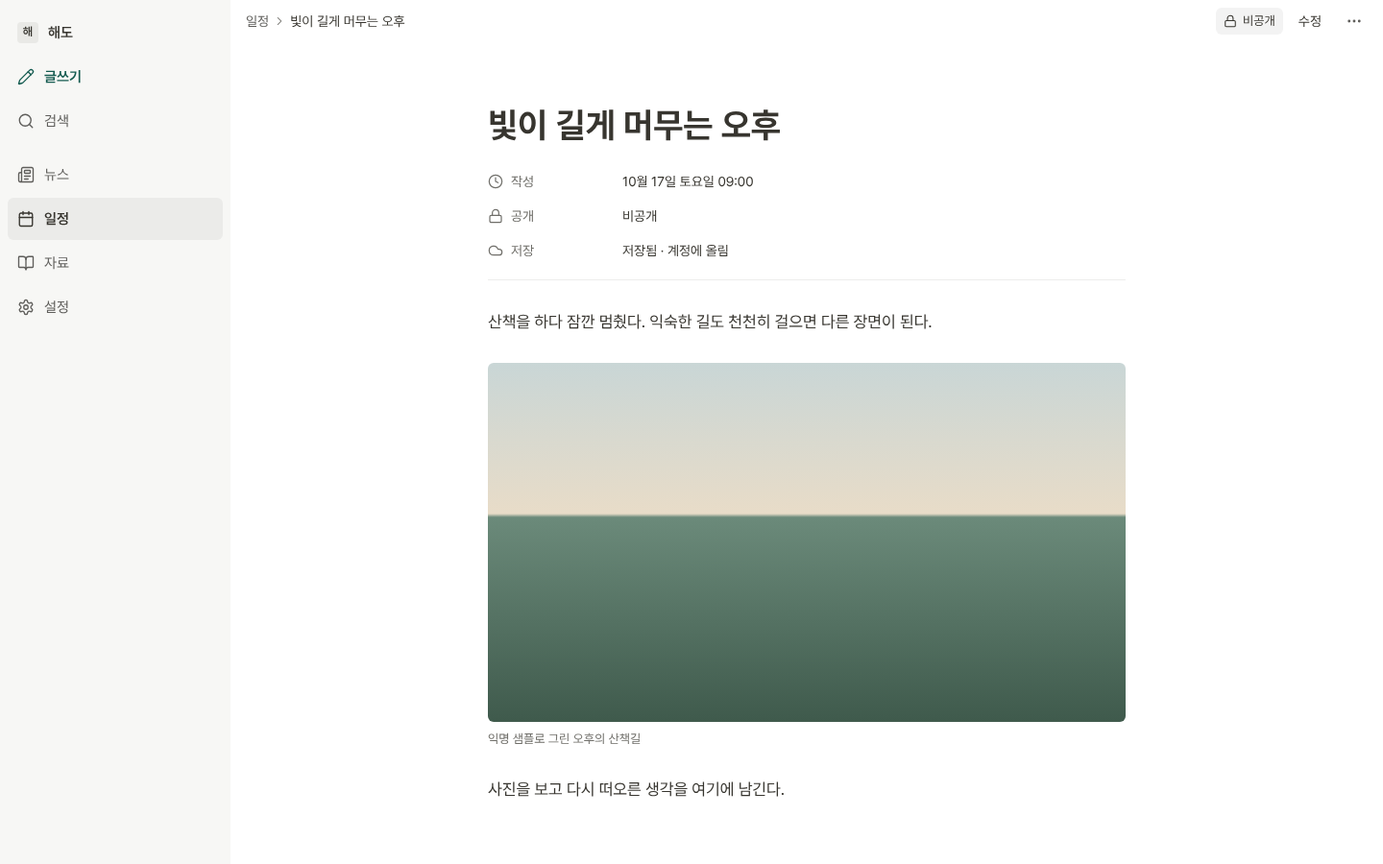
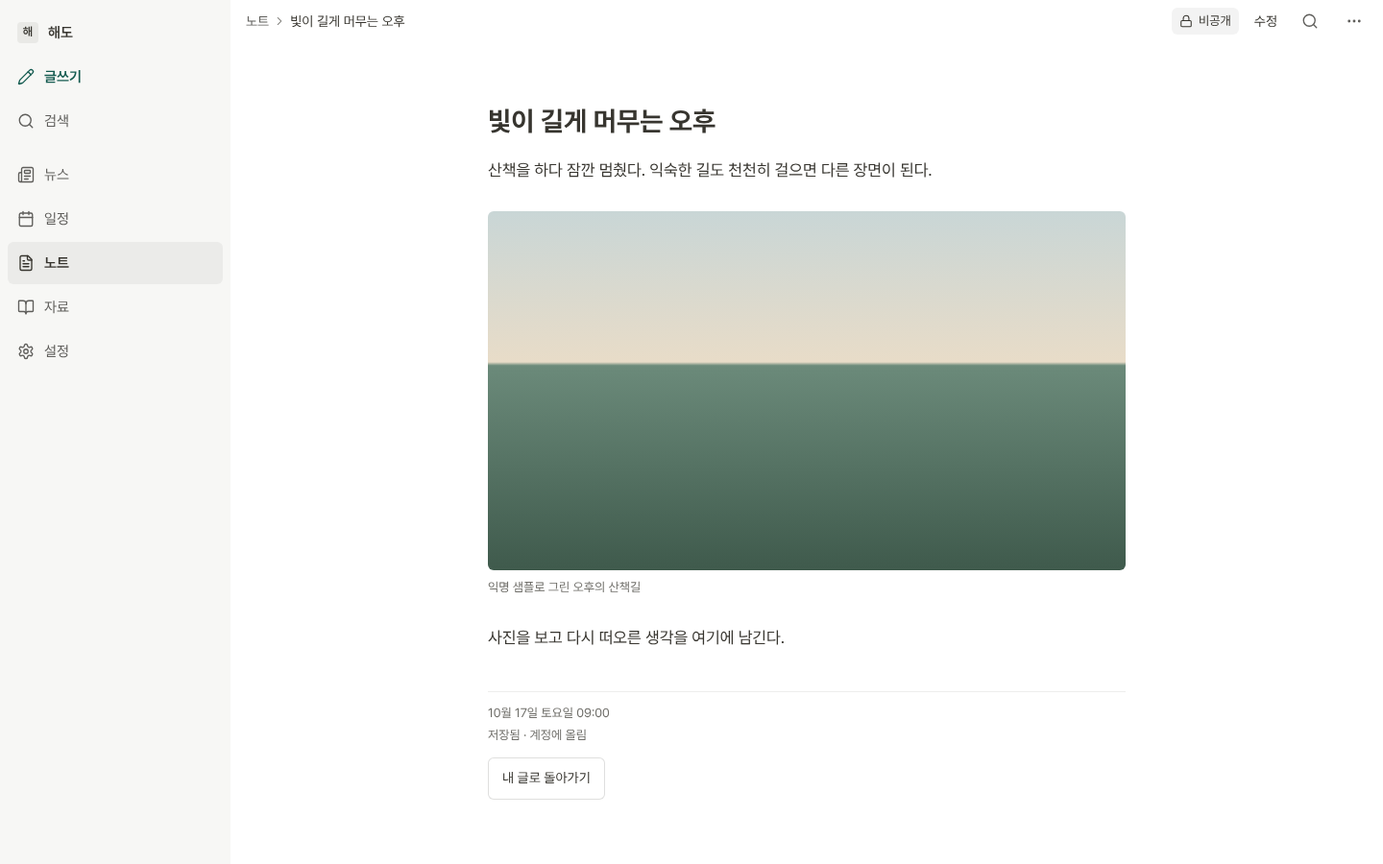
docs: 노션 방향 구현 계약 — 독립 검수 반영판과 새 메뉴 시안 PNG
- 검수(MAJOR 10·MINOR 13·NIT 4) 반영:
  - 글 읽기는 11-02 결정·D1 배치 유지(제목과 본문 사이 비움, 글 끝 줄)
  - 틸은 탐색·머리줄에서 글쓰기 하나, 유지할 곳 목록
  - 선택 상태의 두 번째 표시, 검색 일치 강조 토큰, --canvas 채움 이전
  - 공개 페이지 범위 밖과 보호 조건
  - renderHeader 가지별 담당과 순서(W1 → W2(notes-menu와 함께) → W4, W3 병행)
  - 자료의 개수 상태 줄·검색 필터·사실 꼬리표·가져오기 이름 보존
  - 통합 검색·단축키 (?) 자리, ⋯ 초점 복귀, 알려진 깨지는 단언의 단위별 표
- 시안 PNG 8장을 11-16 메뉴(노트 추가, 일정은 달력만) 기준으로 교체.

Claude-Session: https://claude.ai/code/session_01GFNZYifi77pdz4rK7ARgPc

diff --git a/docs/design-review/notion-visual-contract.md b/docs/design-review/notion-visual-contract.md
@@ -2,184 +2,272 @@
 
 - **소유자 지시(11-16, Designer 세션):**
   - "디자인 위주로만 ㄱㄱ. 디자인 세션이니까 작업 분리 잘해서 진행해. 오케스트레이션 쪽으로 넘어가서 관리하겠다."
-  - 그래서 [노션 방향 시안](notion-direction.md)을 실제 화면에 옮기기로 한다. 노션의 기능(블록 편집, 백링크, 데이터베이스)은 넣지 않는다.
-- **기준:** main `b18adc5`. 시안은 Design 캔버스 「해도 노션 방향 시안」(소유자 계정의 비공개 artifact)이다. 데스크톱 노트·글 읽기·일정 M, iPhone 노트(390·320)·글 읽기·자료·일정 M을 지금 화면과 나란히 그렸다.
+  - 그래서 [노션 방향 시안](notion-direction.md)을 실제 화면에 옮긴다.
+  - 노션의 기능(블록 편집, 백링크, 데이터베이스)은 넣지 않는다.
+- **기준:** main `b18adc5`.
+- **시안:**
+  - 저장소: [notion-direction/](notion-direction/)의 `mock-*.png` 8장
+  - 비교 화면: Design 캔버스 「해도 노션 방향 시안」(소유자 계정의 비공개 artifact). 지금 화면과 시안을 나란히 둔다.
 - **다른 계약과의 관계:**
   - 화면 구조(메뉴 5칸, 노트, 일정은 달력만, 주소)는 [노트 메뉴·일정 정리 계약](notes-menu.md)을 따른다. 이 문서는 그 위에 입히는 **시각 규칙**이다.
   - 둘이 어긋나면 구조는 notes-menu, 모양은 이 문서를 따른다.
-  - 11-08 계약 중 남은 것(계획 화면 틀, 저장 상태 문구, 화면의 날짜)은 그대로다.
-- **이번에 정한 기본값:** 소유자가 남은 판단을 정하지 않고 진행을 지시해서 시안의 권고대로 두었다. 바꾸려면 토큰 한 줄이나 해당 단위만 고치면 된다.
-  - 강조색: 틸 `#145B50` 유지
-  - iPhone 노트 첫 화면의 블로그 소개 묶음: 빼고, `글 메뉴 → 프로필 편집`으로 간다
-  - 노트 행의 중복 `글 읽기 →`와 종류 아이콘: 뺀다
-  - 자료 행의 정보·폴더: `⋯` 하나로 합친다
+  - 11-02 글쓰기·읽기 결정([write-read-redesign](write-read-redesign.md), [expert-design-brief](expert-design-brief.md) 결정표)과 11-08 계약 중 남은 것(계획 화면 틀, 저장 상태 문구, 화면의 날짜)은 그대로다.
+- **독립 검수:** 첫 초안(`1522d97`)을 다른 에이전트가 검수했다. MAJOR 10·MINOR 13·NIT 4건이 나왔고 모두 이 판에 반영했다.
+  - 이 판은 그 검수를 반영한 판이다. 작업자에게 넘기기 전에 총괄이 한 번 더 확인한다.
+
+## Designer 기본값 (소유자가 바꿀 수 있음)
+
+소유자는 남은 판단을 정하지 않고 진행을 지시했다. 그래서 아래는 시안의 권고값으로 두었다. 각각 토큰 한 줄이나 한 단위의 별도 커밋이라 따로 되돌릴 수 있다.
+
+1. 강조색은 틸 `#145B50`을 유지한다.
+2. 노트 첫 화면의 블로그 소개 묶음(프로필 줄)을 뺀다.
+   - 프로필 보기·편집·불러오기 실패 재시도는 `글 메뉴 → 프로필 편집`으로 간다.
+   - W2가 묶음의 각 요소(이름·소개·아바타·`소개 표시`·재시도)의 새 자리를 표로 보고한다.
+   - 공개 블로그의 소개 표시는 바뀌지 않는다.
+3. 노트 행의 종류 아이콘(`home-row-mark`)과, 제목 버튼과 같은 일을 하는 `글 읽기 →`(`.home-post-read`)·사진 열기 버튼(`.home-post-media`)을 뺀다. 행은 제목 버튼 하나로 연다.
+4. 노트 행의 사진은 4:3 큰 사진 대신 오른쪽 64–72px 사진으로 줄인다.
+   - 이것은 `DESIGN.md`와 AGENTS 스킬 절의 "실제 사진 피드"를 바꾸는 일이다.
+   - 채택하면 총괄이 AGENTS 문장을 고친다. 소유자가 원하면 이 한 가지만 되돌린다.
+5. 자료 행의 `자료 출처 정보`·폴더 두 아이콘을 행의 `⋯` 하나로 합친다.
 
 ## 범위
 
-- **한다:**
-  - 색·글자·모서리·간격 토큰, 틀(회색 캔버스 위 흰 판 → 흰 바탕 하나), 데스크톱 메뉴 바탕, 하단 탭
-  - 머리줄과 화면 제목, 탭·거르기·목록 행·속성 줄·꼬리표
-  - 글 읽기의 도구 줄 한 줄로 합치기
+- **한다(앱 화면):**
+  - 색·글자·모서리 토큰과 틀(회색 캔버스 위 흰 판 → 흰 바탕 하나)
+  - 데스크톱 메뉴 면, 좁은 세로 메뉴, 하단 탭
+  - 머리줄, 탭·거르기·꼬리표·목록 행 모양
+  - 글 읽기 도구 줄의 항목 정리
   - 자료·뉴스·설정 머리의 조작 정리
 - **하지 않는다:**
-  - 저장 형식·동기화·공개·백업 로직, 데이터 키
-  - 화면 문구의 뜻(아래 보존 문구), 행동의 추가·삭제
-  - 노션 기능, 움직임(`haedo-motion`) 규칙
-  - `sw.js` CACHE 판올림(총괄이 병합 때)
+  - **공개 페이지**(`blog.html`·`cover.html`·`series.html`·`share.html`·`taste.html`, `public-cover.css`). 이번에는 지금 모습 그대로다(아래 W1 조건).
+  - 저장 형식·동기화·공개·백업 로직과 데이터 키
+  - 문구의 뜻(보존 문구), 행동의 추가·삭제·이름 바꾸기
+  - 노션 기능, 움직임 규칙(`haedo-motion`)
+  - `sw.js` CACHE 판올림(총괄이 병합 때 한다)
 
 ## 토큰 (`assets/haedo-shell.css` `:root`, `assets/haedo-type.css`)
 
-대비는 WCAG 2이고, 반투명 값은 실제 바탕에 합성해 계산했다(scratchpad 계산, 수치는 아래).
+대비는 WCAG 2로 계산했고, 반투명 값은 실제 바탕에 합성해 쟀다. 독립 검수가 다시 계산해 ±0.02 안에서 같았다.
 
 | 토큰 | 지금 | 새 값 | 확인 |
 | --- | --- | --- | --- |
 | `--haedo-ink` | `#182522` | `#37352F` | 흰 12.26, 사이드바 11.43 |
-| `--haedo-muted`(보조 글자) | `#5D6B65` | `#5F5E5B` | 흰 6.48, 사이드바 6.04, 사이드바 선택 5.43 |
-| 새 `--haedo-meta`(시각·개수 같은 메타) | — | `#6F6E69` | 흰 5.11, 사이드바 4.76, 흰 위 선택 4.60. **사이드바 선택(`#EBEBE9`) 위 4.28로 미달이라 거기에는 쓰지 않는다** |
-| `--haedo-canvas`(페이지 바탕) | `#F4F6F5` | `#FFFFFF` | 회색 바탕 위 흰 판을 없앤다 |
-| 새 `--haedo-sidebar` | — | `#F7F7F5` | 데스크톱 왼쪽 메뉴만 |
-| `--haedo-selected` | `#EAF1ED` | `rgba(55,53,47,.06)` | 흰 위 `#F3F3F3`, 사이드바 위 `#EBEBE9` |
-| 새 `--haedo-hover` | — | `rgba(55,53,47,.04)` | 행·메뉴 호버(포인터 기기) |
-| `--haedo-soft` | `#F4F7F5` | `#F7F7F5` | 옅은 채움(작성하던 글 줄, 빈 상태) |
-| `--haedo-line` | `#E3E9E6` | `rgba(55,53,47,.09)` | 흰 위 `#EDEDEC`. 장식선이라 대비 요구 없음 |
-| `--field-line`(입력칸 테두리) | `#86968D` | `#8A8984` | 흰 3.5, 사이드바 3.27(비글자 3:1) |
-| `--haedo-accent` 계열 | `#145B50`·hover `#104A41`·active `#0C3D35` | 그대로 | 흰 7.95, 흰 글자 위 7.95 |
-| `--haedo-link` | `#145B50` | `var(--haedo-ink)` + 밑줄 `rgba(55,53,47,.4)` | 글 안 링크는 밑줄로 구분한다. 행·메뉴 링크는 밑줄 없이 행 모양 |
-| `--haedo-focus` | `#267A69` | 그대로 | 흰 5.16, 사이드바 4.81 |
+| `--haedo-muted`(보조 글자) | `#5D6B65` | `#5F5E5B` | 흰 6.48, 사이드바 6.04, 사이드바 선택 5.45 |
+| 새 `--haedo-meta`(시각·개수) | — | `#6F6E69` | 흰 5.11, 흰 위 호버 4.77, 흰 위 선택 4.60, 사이드바 4.76. **사이드바 위 호버 4.45·선택 4.28로 미달이라 사이드바에는 쓰지 않는다** |
+| `--haedo-canvas`(페이지 바탕) | `#F4F6F5` | `#FFFFFF` | 회색 바탕 위 흰 판을 없앤다. 아래 "채움 이전"과 함께 한다 |
+| 새 `--haedo-sidebar` | — | `#F7F7F5` | 데스크톱·좁은 세로 메뉴 면 |
+| `--haedo-selected` | `#EAF1ED` | `rgba(55,53,47,.06)` | 흰 위 `#F3F3F3`, 사이드바 위 `#EBEBE9`. 흰색과의 차이가 1.11:1뿐이라 **선택·현재 상태는 바탕만으로 나타내지 않는다**(공통 부품의 "두 번째 표시") |
+| 새 `--haedo-hover` | — | `rgba(55,53,47,.04)` | 포인터 기기의 행·메뉴 호버 |
+| `--haedo-soft` | `#F4F7F5` | `#F7F7F5` | 옅은 채움. 그 위의 보조 글은 `--haedo-muted`를 쓰고, 호버를 겹치지 않는다 |
+| 새 `--haedo-mark`(검색 일치 강조) | `--soft`를 함께 씀 | `#FBEFC0`(지금 `::highlight(haedo-search)` 값) | `.life-search-context mark`가 선택 바탕과 떨어지게 한다 |
+| `--haedo-line` | `#E3E9E6` | `rgba(55,53,47,.09)` | 흰 위 `#EDEDEC`. 장식선이다 |
+| `--field-line`(입력·검색 칸 테두리) | `#86968D` | `#8A8984` | 흰 3.50, 사이드바 3.27, 흰 위 선택 3.16 |
+| `--haedo-accent` 계열 | `#145B50`·`#104A41`·`#0C3D35` | 그대로 | 흰 7.95 |
+| `--haedo-focus` | `#267A69` | 그대로 | 흰 5.16, 사이드바 선택 4.34 |
 | `--color-error` | `#A3243D` | 그대로 | 흰 7.3 |
 | `--haedo-radius` | `16px` | `8px` | 카드·시트 |
-| `--haedo-control-radius` | `12px` | `6px` | 버튼·입력칸·선택 바탕 |
+| `--haedo-control-radius` | `12px` | `6px` | 버튼·입력칸·선택 바탕. **습관 확인 칸 12px는 예외(소유자 결정)** |
 | `--haedo-nav-width` | `216px` | `240px` | 데스크톱 메뉴 폭 |
-| 새 굵기 토큰 | 750·700·650·550·450 섞임 | `--haedo-weight-regular:400` · `medium:500` · `semibold:600` · `bold:700` | 700은 화면 제목·글 제목만 |
-| 글자 크기 | 12·13·15·16·17·24·28 | 그대로 두고 `--haedo-text-page-title: 34px`(데스크톱)·`24px`(760px 이하), `--haedo-text-post-title: 36px`·`26px`를 더한다 | 자간 0(20px 이하), 큰 제목은 0 또는 -0.01em까지 |
+| 새 굵기 토큰 | 750·700·650·550·450 섞임 | `--haedo-weight-regular:400`, `-medium:500`, `-semibold:600`, `-bold:700` | 700은 화면 제목·글 제목만 |
+| 새 글자 크기 | 12·13·15·16·17·24·28 | 그대로 두고 `--haedo-text-page-title: 34px`(1101px 이상)를 더한다 | 760px 이하 화면 제목은 지금처럼 28px. 글 제목은 편집·읽기 같은 28px(11-02 결정) 그대로. 자간은 20px 이하 0, 큰 제목 0~-0.01em |
 
-- 바꾸지 않는 것: 습관 확인 칸(44px 정사각, 모서리 12px, 소유자 결정)의 모서리, Pretendard, Lucide 선 굵기 1.8, 조작 아이콘 20px·글 안 16px.
-- 옛 이름(`--life-*`, `--soft`, `--line`, `--ink`, `--paper-2`)은 새 토큰을 가리키게 둔다. 화면 파일의 별칭은 지우지 않는다.
+### W1이 함께 해야 하는 것
+
+- **채움 이전:** 지금 `--canvas`를 유일한 채움으로 쓰는 곳은 바탕이 흰색이 되면 경계가 사라진다. 이런 곳을 `--haedo-soft`나 입력 테두리로 옮긴다.
+  - `ui.css`: `.life-search-bar` `:88`, `.life-selection-bar` `:126`, `.life-import-methods` `:200`
+  - `home.css`: `:24`·`:70`·`:87`·`:102`
+  - `workbench.css`: `:133`
+  - 검색 칸 안쪽 입력은 `border:0`(`ui.css:91`)이라 바깥 칸이 `--field-line` 테두리를 가져야 한다.
+- **`--soft` 사용처 점검:** 셸에서 `--soft`는 `--haedo-selected`를 가리킨다(`haedo-shell.css:10`). 눌림·현재·일치 표시(`ui.css:58,98,109,116,124,202,349,357`, `workbench.css` 여러 곳)가 함께 옅어진다.
+  - 각 사용처를 분류해 보고한다: 두 번째 표시를 더할 곳, `--haedo-mark`로 갈 곳, 그대로 둘 곳.
+- **틸 사용처 분류:** `var(--color-primary)` 136곳과 `var(--haedo-accent)` 36곳을 아래 "틸 규칙"에 따라 "유지 / 먹색으로"로 나눈 표를 만들어 보고한다.
+  - 링크의 실제 색은 `ui.css:23` `a{color:var(--color-primary)}`이다. 글 안 링크만 먹색 + 밑줄(`rgba(55,53,47,.4)`, 오프셋 4px)로 바꾼다. 행·메뉴 모양의 링크는 행 규칙을 따른다.
+- **공개 페이지 보호:**
+  - 공개 페이지는 `ui.css`만 읽고 `haedo-shell.css`는 읽지 않는다. 그래서 새 값은 `haedo-shell.css`에만 둔다.
+  - `ui.css`의 별칭은 지금 값을 대체값으로 유지한다(예: `var(--haedo-canvas, #f4f6f5)`). 대체값 없는 `var(--haedo-*)`로 바꾸지 않는다.
+  - 공개 검사(`blog-public-browser`, `public-cover-visual-browser --prepare-database`, `nine-public-browser`, `blog-series-public-browser`)와 전·후 캡처로 공개 화면이 바뀌지 않았음을 보인다.
+
+## 틸 규칙
+
+- **탐색·머리줄에서 틸은 `글쓰기` 하나다.** 메뉴의 현재 항목, 탭, 거르기, 행, 머리 아이콘은 먹색·회색이다.
+- **틸을 유지하는 곳:**
+  - 초점 링
+  - 체크된 체크·`accent-color`
+  - 인용 바(소유자 결정 "인용 = 틸 3px 바")
+  - 진행 막대
+  - 편집기·대화상자의 주 버튼(`글 저장`, `공개하기` 등)
+  - 빈 상태의 첫 행동(`첫 글 쓰기`)
+  - iPhone 머리의 `글쓰기` 아이콘
+- **바뀌는 것:** 달력의 오늘 표시는 먹색 원이다(시안). 습관 표의 오늘 표시는 W2가 같은 규칙으로 맞춘다.
+- **바꾸지 않는 것:** 연표·행복도의 데이터 색(`DESIGN.md` 데이터 색 절).
 
 ## 공통 부품 규칙
 
+- **재사용:** 기존 클래스와 도우미를 쓴다(11-09 교훈). 같은 일을 하는 새 도우미를 만들지 않는다.
+  - 예: 머리 제목 `.haedo-page-heading h1`, 메뉴 `.life-feature-menu`, 자료 탭 `RecordsList.tabs`
+- **뜻은 바꾸지 않는다:** 모양만 바꾸고 지금의 역할·상태 속성을 유지한다.
+  - 설정의 분할 선택은 라디오 묶음이고(`settings-ui.js:237`), `Y·Q·M·W·D`는 `aria-current="true"` 링크다(`schedule-ui.js:654-659`). 모양만 글자 탭이 된다.
 - **틀:**
-  - 페이지는 흰 바탕 하나다. 데스크톱 메뉴만 `--haedo-sidebar` 면을 쓰고 화면 높이를 채운다.
-  - 본문을 회색 바탕 위 흰 판(테두리·둥근 모서리)으로 감싸지 않는다.
-  - 경계는 1px `--haedo-line`이고 그림자는 떠 있는 것(메뉴·시트·알림)에만 쓴다.
-- **데스크톱 메뉴(1101px 이상):**
-  - 순서: `해도` 글자 표지 → `글쓰기` → (`검색`, 지금 있으면) → 8px → 뉴스·일정·노트·자료·설정.
-  - 항목 높이 44px, 모서리 6px. 현재 항목은 `--haedo-selected` 바탕, 먹색, 600이다.
-  - 나머지 항목은 `--haedo-muted`, 400이다. 아이콘 20px, 선 1.8.
-  - `글쓰기`는 채운 틸 버튼이 아니다. 틸 **글자와 아이콘**의 조용한 항목이고, 한 화면에서 틸을 쓰는 유일한 곳이다.
-  - 새 글을 쓰는 중이면 현재 항목 모양으로 바뀐다(지금 규칙 15 유지).
+  - 페이지는 흰 바탕 하나다. 메뉴만 `--haedo-sidebar` 면이고 화면 높이를 채운다.
+  - 본문을 회색 바탕 위 흰 판으로 감싸지 않는다.
+  - 경계는 1px `--haedo-line`이다. 그림자는 떠 있는 것(메뉴·시트·알림)에만 쓴다.
+- **데스크톱 메뉴(1101px 이상, 폭 240px):**
+  - 순서: `해도` 글자 표지 → `글쓰기` → 8px → 뉴스·일정·노트·자료·설정. 메뉴에 검색을 새로 더하지 않는다. 통합 검색은 머리에 남는다.
+  - 항목 높이 44px, 모서리 6px.
+  - 현재 항목: `--haedo-selected` 바탕 + 먹색 + 600(두 번째 표시)이다. 나머지는 `--haedo-muted` 400이다.
+  - `글쓰기`는 채운 틸 버튼 대신 틸 글자·아이콘의 조용한 항목이다. 새 글을 쓰는 중이면 현재 항목 모양이 된다(결정 15).
+- **좁은 세로 메뉴(761–1100px, iPad 세로·분할 화면):**
+  - 지금 폭(88px)과 아이콘 위·라벨 아래 배치를 유지한다. 면은 `--haedo-sidebar`다.
+  - `글쓰기`는 채움 없는 틸 아이콘+라벨이다. 현재 항목 규칙은 데스크톱과 같다.
 - **하단 탭(760px 이하):**
-  - 5칸 같은 폭, 높이 64px, 위 1px 선, 흰 바탕.
-  - 현재 칸은 먹색 600, 나머지는 `--haedo-meta` 400이다. 아이콘 20px, 라벨 12px.
-  - 320px에서 칸 64px, 라벨이 잘리지 않아야 한다.
-- **노트 아이콘:** Lucide 1.51.0 `file-text`를 새로 넣는다. 원본 SVG와 SHA-256을 `vendor/lucide/UPSTREAM.json`과 `vendor/lucide/icons/`에 남긴다. `write`(글쓰기)·`edit`(수정)·`quote`(인용)·`book`(자료)과 겹치지 않는다.
-- **머리줄과 화면 제목:**
-  - 데스크톱 머리줄은 높이 44px이고 왼쪽에 경로(14px, `--haedo-muted`, 예: `노트 › 빛이 길게 머무는 오후`), 오른쪽에 행동을 둔다.
-  - 화면 제목은 본문 맨 위의 큰 제목(`--haedo-text-page-title`, 700)이다.
-  - iPhone은 지금처럼 한 줄 머리(제목 24px 700 + 오른쪽 아이콘)다.
-  - 머리의 아이콘은 **최대 3개**이고 `글쓰기`는 iPhone에서 늘 맨 오른쪽이다. 나머지 행동은 `⋯` 메뉴로 옮긴다. 행동은 지우지 않는다.
-- **탭(화면 안 보기 전환):**
-  - 글자 탭이고 현재 탭은 먹색 600 + 아래 2px 먹색 선이다. 회색 분할 상자는 쓰지 않는다.
-  - 높이 44px. 탭 줄 아래 1px 선.
+  - 5칸 같은 폭, 높이 64px, 위 1px 선, 흰 바탕이다.
+  - 현재 칸은 먹색 600이고 나머지는 `--haedo-meta` 400이다. 아이콘 20px, 라벨 12px.
+  - 각 칸 44px 이상이고 320px에서 라벨이 잘리지 않아야 한다(지금 좌우 여백 `max(12px,…)` 기준, notes-menu 문장과 같다).
+- **노트 아이콘:**
+  - Lucide 1.51.0 `file-text`를 새로 넣는다.
+  - `vendor/lucide/icons/`에 원본 SVG를 두고, `vendor/lucide/UPSTREAM.json`의 `files`(또는 `npm_subset.files`)에 SHA-256과 함께 적는다. 그래야 `tests/icons.test.cjs`가 통과한다.
+  - 판에 그 아이콘이 없으면 Designer에 알리고 멈춘다. 다른 판에서 가져오지 않는다.
+- **머리줄:**
+  - **데스크톱:** 머리줄 높이 44px. 왼쪽은 경로(14px `--haedo-muted`, 예: `노트 › 빛이 길게 머무는 오후`)이고, 오른쪽은 행동이다. 화면 제목은 본문 맨 위 큰 제목(`--haedo-text-page-title`, 700)이다.
+  - **760px 이하:** 지금처럼 한 줄 머리(제목 28px 700 + 오른쪽 아이콘)다.
+  - **머리 오른쪽 아이콘은 `글쓰기`를 빼고 최대 3개다:** [화면 고유 행동 0–1개] · `통합 검색`(`#lifeFindOpen`, 이름 그대로) · `⋯`. 나머지 행동은 `⋯`로 옮기고 지우지 않는다.
+  - 일정의 단위 탭·`오늘`·`‹ ›`는 이 상한 밖의 탐색 묶음이다. `단축키 (?)`(`schedule-ui.js:686`)는 데스크톱에서 유지한다(키보드 도움말 보존).
+  - iPhone의 `글쓰기`는 늘 맨 오른쪽이다.
+- **두 번째 표시(선택·현재·눌림):** 바탕(`--haedo-selected`)과 함께 **먹색 600 글자**나 **아래 선·체크·테두리**를 하나 더 쓰고, `aria-pressed`·`aria-current`·`aria-selected`를 유지한다. 색만으로 상태를 나타내지 않는다(`DESIGN.md` 상태 규칙).
+- **탭(화면 안 보기 전환):** 글자 탭이다. 현재 탭은 먹색 600 + 아래 2px 먹색 선이다. 높이 44px, 탭 줄 아래 1px 선. 회색 분할 상자는 쓰지 않는다.
 - **거르기·꼬리표:**
-  - 보이는 바탕은 28px(선택 시 `--haedo-selected`, 모서리 6px)이고 누르는 범위는 44px이다.
-  - 원천 꼬리표(`Apple 메모`, `Obsidian`)는 `#F1F1EF` 바탕, `--haedo-muted` 글자, 12px, 모서리 4px다(대비 5.73).
+  - 보이는 바탕은 28px이고 누르는 범위는 44px이다.
+  - 선택된 거르기는 바탕 + 먹색 600 글자이고, 나머지는 `--haedo-muted` 400이다.
+  - 원천·사실 꼬리표(`Apple 메모`, `본문 일부`, `버전 2/3` 등): `#F1F1EF` 바탕, `--haedo-muted` 글자, 12px, 모서리 4px(대비 5.73).
 - **목록 행:**
-  - 행 전체가 하나의 열기 동작이다. 제목(16px 600, 최대 2줄), 발췌(14px `--haedo-muted`, 데스크톱 1줄·iPhone 2줄), 메타 한 줄(13px `--haedo-meta`), 사진이 있으면 오른쪽 64–72px 사진을 둔다.
-  - 행 사이는 1px 선이다. 같은 행에 같은 일을 하는 두 번째 버튼을 두지 않는다.
+  - 지금의 제목 버튼(`h3 > button`)을 유지하고 누르는 범위만 행 전체로 넓힌다(늘린 링크 방식). 버튼 안에 다른 조작을 넣지 않는다.
+  - 사진은 보이기만 하고 따로 누르지 않는다. 같은 일을 하는 두 번째 버튼을 두지 않는다.
+  - 제목 16px 600(최대 2줄), 발췌 14px `--haedo-muted`(데스크톱 1줄·iPhone 2줄), 메타 한 줄 13px `--haedo-meta`, 행 사이 1px 선이다.
   - 행에 따로 할 일이 있으면 오른쪽 `⋯` 하나로 모은다.
-- **날짜 머리:** 13px 500 `--haedo-muted`, 위 28px 여백.
-- **속성 줄(글 읽기):** 이름 칸(데스크톱 140px·iPhone 88px, 16px 아이콘 + 이름, `--haedo-meta`)과 값(14px 먹색). 높이 32–36px.
-- **빈 상태:** 표나 상자를 그리지 않고 한 줄 문장(14px `--haedo-meta`)과, 있으면 링크 하나만 둔다.
-- **메뉴(`⋯`)·시트:** 흰 바탕, 1px 선, 그림자 `0 0 0 1px rgba(15,15,15,.05), 0 3px 6px rgba(15,15,15,.1), 0 9px 24px rgba(15,15,15,.2)`, 모서리 8px, 항목 44px.
+- **날짜 머리:** 13px 500 `--haedo-muted`, 위 28px.
+- **빈 상태:** 표나 상자 없이 한 줄 문장(14px `--haedo-meta`)과, 있으면 링크 하나다.
+- **메뉴(`⋯`)·시트:**
+  - 흰 바탕, 1px 선, 그림자 `0 0 0 1px rgba(15,15,15,.05), 0 3px 6px rgba(15,15,15,.1), 0 9px 24px rgba(15,15,15,.2)`, 모서리 8px, 항목 44px.
+  - **초점 복귀:** `⋯` 안으로 옮긴 조작은 Esc나 실행 뒤 초점을 **그 `⋯` 버튼**(행 메뉴면 그 행의 제목 버튼)으로 돌린다.
+    - 지금 id·클래스로 초점을 돌려주는 코드(`#lifeSelectionToggle` `ui.js:2652,4248`, 폴더 이동 `:4420-4427`)는 닫힌 메뉴 안의 요소를 가리키지 않게 고친다.
+- **아이콘:** Lucide 선 아이콘만 쓴다. 공개 알약의 자물쇠도 Lucide `lock`이다. 이모지는 쓰지 않는다.
 
 ## 화면별 규칙
 
 - **노트(notes-menu 단위):**
-  - 탭 `글 · 초안 · 숨긴 글`과 `내 글 찾기`가 한 줄에 온다.
+  - 탭 `글 · 초안 · 숨긴 글`과 `내 글 찾기`가 한 줄이다.
   - 그 아래 `작성하던 글 · 제목 · 이어쓰기` 한 줄을 `--haedo-soft` 바탕으로 둔다.
-  - 그다음 날짜 머리와 행이 온다.
-  - 머리 오른쪽은 `글 메뉴`(⋯: 글 공개·보관, 계정 보관 상태, 프로필 편집)와 iPhone `글쓰기`다.
+  - 그다음 날짜 머리(처음 쓴 날, 결정 8)와 행이 온다.
+  - 머리는 `통합 검색` · `글 메뉴`(⋯: 글 공개·보관, 계정 보관 상태, 프로필 편집)와 iPhone `글쓰기`다.
+  - 행 메타는 시각 + 공개 표시 문구 그대로다.
 - **일정(모든 단위 같은 틀):**
-  - 데스크톱 머리: 제목(`2026년 11월` 등) 오른쪽에 단위 글자 탭 `Y Q M W D`, `오늘`, `‹ ›`, `일정에서 찾기`를 둔다.
-  - 그 아래 거르기 `전체 · 글 · 발췌 · 사진`, 본문, 옆 칸(280px, 왼쪽 1px 선)이 온다.
-  - M 칸: 1px 선 격자, 칸 높이 104px, 날짜 13px. 오늘은 24px 먹색 원에 흰 글자다.
-  - 그 날의 글은 칸 안 회색 꼬리표(12px)다. **칸 전체가 하나의 링크**(44px 이상)이고 이름은 `11월 5일, 글 1편`이다. 꼬리표를 따로 누르게 하지 않는다.
-  - iPhone: 단계 막대가 없다(소유자 결정). `‹ 2026`(연으로)과 `찾기`·`글쓰기`가 한 줄, 제목과 `오늘 ‹ ›`가 한 줄이다. 날짜 44px, 오늘 32px 먹색 원, 글 있는 날 4px 먹색 점이다.
-  - 옆 칸 순서는 `예정 → 습관 · 행복도 → 목표 · 계획`이다(notes-menu). 습관 점은 6px이고 한 날은 채움, 지난 할 날은 1.5px 테두리, 앞으로의 할 날은 옅은 테두리다.
-  - 범례에 `보기 전용 · 체크는 하루·주 보기에서`를 둔다(결정 13).
-- **글 읽기:**
-  - 도구는 한 줄이다: `뒤로` · `🔒 공개 알약`(지금 `글 정보` 동작 그대로) · `수정`(숨긴 글이면 `목록에 다시 보이기`) · `⋯` · iPhone `글쓰기`.
-  - 지금 둘째 줄의 `사진 포함 백업`·찾기·`삭제`(맨 아래)는 `⋯` 안으로 옮긴다. 순서는 지금 메뉴 순서를 따른다.
-  - 제목(`--haedo-text-post-title`, 700) 아래에 속성 줄 `작성`(처음 쓴 날, 결정 8)과 `저장`(두 단계 저장 상태 문구 그대로)을 두고, 1px 선 뒤 본문이 온다.
-  - 공개 상태는 위 알약에만 둔다. 글 끝의 저장 상태 줄과 `다시 시도`는 속성 줄로 옮긴다.
-  - 본문 17px/1.8은 그대로다. AI 점 표시도 그대로다.
+  - **데스크톱 머리:** 제목(`2026년 11월` 등), 단위 글자 탭, `오늘`, `‹ ›`, `통합 검색`, `단축키 (?)`. 그 아래 거르기 `전체 · 글 · 발췌 · 사진`, 본문, 옆 칸(280px, 왼쪽 1px 선)이 온다.
+  - **M 칸:**
+    - 1px 선 격자, 칸 높이 104px, 날짜 13px. 오늘은 24px 먹색 원에 흰 글자다.
+    - 칸 전체가 하나의 링크(44px 이상)다. **접근 이름은 지금 `dayLabel`(요일·예정 수·선택·오늘, `schedule-ui.js:428-443`) 그대로**에 글 수만 더한다.
+    - 칸 안의 글·예정 줄(`:452-454`)은 회색 꼬리표 모양이고 따로 누르지 않는다.
+  - **iPhone:**
+    - 단계 막대가 없다(소유자 결정). `‹ 2026`(연으로), `통합 검색`, `글쓰기`가 한 줄이고, 제목과 `오늘 ‹ ›`가 한 줄이다.
+    - 날짜 44px, 오늘 32px 먹색 원, 글 있는 날 4px 먹색 점이다.
+  - **옆 칸 순서:** `예정 → 습관 · 행복도 → 목표 · 계획`(notes-menu).
+  - **월 보기 습관 표**(`habit-tracker.js` `renderCompact`, `habit-tracker.css`):
+    - 지금 상태값 셋을 그대로 쓴다. `done` 채움, `planned` 1.5px `--haedo-meta` 테두리, `kept` 테두리 + 가운데 점. 과거/미래를 새로 나누지 않는다.
+    - 범례 문구는 그대로다(`완료` · `할 날` · `정한 요일이 아닌 날의 체크`). 여기에 `보기 전용 · 체크는 하루·주 보기에서`를 더한다(결정 13).
+- **글 읽기(11-02 결정과 D1 배치 유지):**
+  - **도구 줄:** 한 줄이다. `뒤로` · 공개 알약(Lucide `lock`, 지금 `글 정보` 동작과 문제 표시 그대로) · `수정`(숨긴 글이면 `목록에 다시 보이기`) · `통합 검색` · `⋯` · iPhone `글쓰기`.
+    - 머리줄 통합은 이미 코드에 있다(`ui.js:2678-2688`, `13ba336`). 다시 만들지 않는다.
+    - 지금 줄에 따로 보이는 `사진 포함 백업`은 `⋯` 안으로 옮긴다. 순서는 `사진 포함 백업` → (지금 메뉴 항목) → `삭제`(맨 아래)다.
+  - **본문:** 제목 바로 아래 본문이다. **제목과 본문 사이에는 아무것도 두지 않는다.** 제목은 편집기와 같은 28px다.
+  - **글 끝 줄:** 1px 선 아래에 지금처럼 날짜(`updatedAt`), `숨긴 글`·`초안` 표시, 저장 상태(`#photoServerStatus`, role=status)와 `다시 시도`, `내 글로 돌아가기`를 둔다. 모양만 새 토큰을 쓰고 버튼은 44px이다.
 - **자료:**
-  - 머리 아이콘은 `담기(+)` · `⋯`(여러 개 고르기, 폴더 관리) · `글쓰기` 셋이다.
-  - 검색 칸(44px, `--haedo-selected` 바탕) 안 오른쪽에 `거르기` 하나를 둔다. `최신 버전만`·원천·날짜는 그 안으로 옮긴다.
-  - 탭 `전체 N · 원문 · 발췌 · 기사`의 오른쪽에 `모든 폴더 ⌄`를 둔다. `자료 N개 · 최신 버전` 줄은 탭 개수와 거르기 표시로 대신한다.
-  - 행: 제목 1줄, 발췌 2줄, 꼬리표 + 시각, 오른쪽 `⋯`(정보, 폴더로 옮기기)다.
+  - **머리:** `가져오기`(이름 그대로) · `통합 검색` · `⋯`(`기록 선택`, 폴더 관리) · `글쓰기`.
+    - 데스크톱 `가져오기`는 지금처럼 라벨이 붙고, iPhone은 아이콘만이다.
+  - **검색 칸:** 44px, `--field-line` 테두리, 흰 바탕이다. 칸 안 오른쪽에 `검색 필터`(`#lifeFilterToggle`, 이름·내용 그대로)를 둔다. 없는 거르기를 새로 만들지 않는다.
+  - **탭과 개수 줄:**
+    - 탭 `전체 N · 원문 · 발췌 · 기사` 오른쪽에 폴더 선택을 둔다.
+    - **개수 줄 `#lifeSearchCount`(role=status)는 그대로 두고** 탭 아래 13px 메타로 모양만 바꾼다. 다음 문구가 모두 남아야 한다: `· 최신 버전`·`· 일치한 버전별 결과`·원천·`· 한글 띄어쓰기 무시`·`· N개 표시`.
+  - **행:** 제목 1줄, 발췌 2줄, 꼬리표 줄, 오른쪽 `⋯`(`자료 출처 정보`, 폴더)다.
+    - 꼬리표 줄에는 원천과 **사실 표시를 모두 남긴다**: `본문 일부`·`본문 미확보`·`범위 미확인`, `버전 n/m`, `이전 버전`, `제목 일치`, `저장한 문장·메모 일치`(`ui.js:4111-4116`, `:4352-4362`).
+    - 문장·메모 목록도 그대로다. URL만 있는 자료를 본문 확보로 보이지 않는다.
 - **뉴스·설정:**
-  - 위 머리 규칙(아이콘 최대 3개, 나머지 `⋯`)과 탭·행 규칙을 적용한다.
-  - 각 조작의 새 자리는 작업자가 표로 적어 Designer 확인을 받는다(아래 W5). 화면별 시안이 따로 없으므로 이 확인이 시안을 대신한다.
+  - 위 머리·탭·행 규칙을 적용한다.
+  - 시안이 따로 없으므로 작업자가 조작마다 "지금 자리 → 새 자리 → Esc·실행 뒤 초점" 표를 먼저 Designer에 보내 확인받고 구현한다.
 
 ## 보존 조건 (모든 단위)
 
-- **행동:** 행동을 지우지 않고 자리만 옮긴다. 접근 가능한 이름(`글 메뉴`, `글 저장`, `내 글 찾기`, `글쓰기` 등)과 키보드 순서·초점 복귀 키(`data-focus-key`)를 유지한다.
-  - 노트 행의 초점 복귀는 제목 버튼(`home:post:…`)으로 모은다.
+- **행동:** 행동을 지우지 않고 자리만 옮긴다.
+  - 접근 가능한 이름을 유지한다: `글 메뉴`, `글 저장`, `내 글 찾기`, `통합 검색`, `가져오기`, `기록 선택`, `검색 필터`, `단축키 (?)`, `글쓰기`, `내 글로 돌아가기` 등.
+  - 키보드 순서와 초점 복귀 키(`data-focus-key`)를 유지한다. 노트 행의 복귀는 제목 버튼(`home:post:…`)으로 모은다.
 - **문구는 그대로 둔다:**
   - 공개 표시: `비공개 원본` · `공개 중 · 원본은 비공개` · `공개 확인 못 함 · 원본은 비공개` · `기록 글 · 비공개` · `첨부 글 · 비공개`
-  - 저장 상태 세 가지와 `다시 시도`
-  - 빈 상태와 오류 문장
-  - 시안의 줄인 메타(`비공개`)는 그림일 뿐이고, 실제로는 위 문구를 쓴다.
+  - 저장 상태:
+    - `저장됨 · 계정에 올림` · `계정에 올리기 대기` · `계정에 올리지 못함 · 다시 시도`
+    - `다른 기기 변경을 맞추는 중 · 진 쪽은 복구 사본으로 남김` · `저장됨 · 앱을 새로고침하면 계정에 올림`
+  - 공개 알약의 덧붙임: `올리기 실패` · `새로고침 필요` · `맞추는 중` · `수정 중`, `공개 여부 확인 중`/`확인하지 못함`
+  - 그 밖에: `마지막 선택 미반영`, 빈 상태와 오류 문장
+  - 시안 그림의 문구는 예시다. 실제로는 위 문구를 쓴다.
 - **조작과 글자:**
-  - 조작은 44px 이상이다. 데스크톱 블록 손잡이처럼 포인터 전용 예외는 이번에 없다.
+  - 조작은 44px 이상이다(이번 범위에 포인터 전용 예외는 없다).
   - Pretendard, `word-break: keep-all`, 글자 대비 4.5:1, 비글자 3:1.
-  - 팔레트를 바꿨으므로 **실제 표면색 기준**의 대비와 색각 구분(공개 중/미반영 같은 상태색)을 다시 잰다.
+  - 팔레트를 바꿨으므로 **실제 표면색 기준** 대비와 색각 구분(공개 중/미반영 같은 상태색)을 다시 잰다.
 - **화면 전환:**
   - 노트·일정·글 읽기의 복귀(스크롤·검색어·탭)를 유지한다.
   - 계정 전환·늦은 응답·한글 조합·열린 편집기의 미저장 입력을 유지한다.
   - 옛 주소는 notes-menu 표대로 연다.
-- **겉모양만 바꾼다:** 숨긴 UI, 제품 전용 분기, 단언 약화를 쓰지 않는다. 바뀐 규칙을 단언하던 검사는 같은 작업에서 새 규칙으로 고친다.
-  - 예: `tests/life-naver-capture-browser.cjs:509`의 `.home-post-read` 클릭은 제목 버튼(`.home-post-open`)으로 바꾼다.
+- **검사:** 숨긴 UI, 제품 전용 분기, 단언 약화를 쓰지 않는다. 바뀐 규칙을 단언하던 검사는 같은 작업에서 새 규칙으로 고친다(아래 단위별 표).
 
 ## 작업 분리
 
-파일 담당이 겹치지 않게 나눴다. `ui.js`는 두 단위가 쓰지만 서로 다른 함수 영역만 맡는다.
+`ui.js`의 `renderHeader`(`:2549-2720`) 한 함수가 모든 화면의 머리를 만든다. 그래서 `ui.js`는 **가지별 담당 + 순서**로 나눈다.
 
-| 단위 | 맡을 곳(권장) | 파일 | 선행 | 할 일 |
+| 단위 | 맡을 곳 | 파일 | 선행 | 고칠 검사(알려진 것) |
 | --- | --- | --- | --- | --- |
-| **W1 바탕·토큰** | Designer | `assets/haedo-shell.css`, `assets/haedo-type.css`, `assets/life/ui.css`의 `:root`와 공통 판 규칙, `assets/life/icons.js`(`file-text` 추가), `DESIGN.md`, `.impeccable/design.json` | 없음 | 위 토큰 표. 회색 캔버스·흰 판 걷기, 메뉴 면, 조용한 `글쓰기`, 하단 탭을 N칸 같은 폭으로, 공통 부품 클래스(`.haedo-page-title`·탭·거르기·꼬리표·메뉴) |
-| **W2 노트** | notes-menu 작업자 | `assets/life/home.js`, `assets/life/home.css`, notes-menu가 정한 탐색·주소 파일(`assets/haedo-navigation.js` 등) | W1, notes-menu 구현과 **한 번에** | 노트 구조(notes-menu)와 위 노트 규칙을 같이 넣는다. 같은 파일을 두 번 고치지 않는다 |
-| **W3 일정 달력** | notes-menu 작업자(같거나 둘째) | `assets/life/schedule.css`, `assets/life/schedule-*.js`, 일정 머리 | W1, notes-menu와 한 번에 | 모든 단위 같은 틀과 위 일정 규칙 |
-| **W4 글 읽기 한 줄** | 작업자 | `assets/life/photo-post-ui.js`, `assets/life/photo-post.css`, `ui.js`의 쪽 화면 머리 영역(`heading.textContent = … '글 읽기'` 주변 함수) | W1 | 도구 한 줄, 속성 줄, 글 끝 상태를 속성으로. D1 후속 "읽기 머리줄과 `ui.js` 공통 머리줄 통합"을 이 단위로 끝낸다 |
-| **W5 자료·뉴스·설정 머리** | 작업자 | `ui.js`의 자료 목록 머리·행 영역, `assets/life/source-folders-ui.js`, `assets/life/records.css`, `assets/life/discovery.css`, `assets/life/settings.css` | W1 | 자료 규칙. 뉴스·설정은 조작 자리 표를 먼저 Designer에 보내 확인받고 구현 |
-| **W6 나머지 굵기·모서리 정리와 통합 검수** | Designer | W2–W5 밖의 CSS(`workbench.css`, `platform.css`, `public-cover.css`, `timeline-shell.css`, `habit-tracker.css` 등) | W2–W5 병합 | 굵기 750·650·550·450과 옛 모서리를 토큰으로. 통합본에서 아래 검사 전체 |
+| **W1 바탕·토큰** | Designer 구현 · 다른 에이전트 검수 | `haedo-shell.css`, `haedo-type.css`, `ui.css`(토큰 별칭·채움 이전·`a` 색·`--soft` 사용처), `home.css`·`workbench.css`의 채움 줄만, `icons.js`, `vendor/lucide/`(`file-text`), `DESIGN.md`(`:143`·`:145`·`:174`·`:186` 등 틀·색 문장), `.impeccable/design.json` | 없음 | `unified-home-browser.cjs:442`(글쓰기 흰 글자·틸 바탕), `app-motion-browser.cjs:160`(현재 탭 750·틸), `habit-tracker-browser.cjs:118`·`:135`·`:298`(옛 먹색 `rgb(24, 37, 34)`·750), `sns-blog-experience-browser.cjs:105`(메뉴 폭 216), `tests/icons.test.cjs` |
+| **W2 노트·일정 본문** | notes-menu 작업자(구조와 한 번에, **커밋은 구조 → 시각으로 나눈다**) | `home.js`, `home.css`(W1 줄 제외), `schedule.css`, `schedule-entries.js`, `schedule-ui.js`, `schedule-data.js`, `habit-tracker.js`, `habit-tracker.css`, `haedo-navigation.js`, `ui.js` `renderHeader`의 노트·일정 가지(`scheduleParts`, `글 메뉴` 위치) | W1 | `life-naver-capture-browser.cjs:509`(`.home-post-read` → 제목 버튼), `.home-post-media`를 쓰는 `home-refinement`·`home-startup-performance`·`post-markdown-thumbnails`, 프로필 줄을 쓰는 `home-refinement`·`sns-blog-experience`·`blog-user-journeys`·`feature-flow`, 일정 검사들, `habit-tracker-browser` |
+| **W3 글 읽기** | 작업자 | `photo-post-ui.js`, `photo-post.css` (`ui.js`는 고치지 않는다) | W1 | `sns-blog-experience-browser.cjs:224`, `minor-defects-ui-browser.cjs:127`·`:157`(보이는 `사진 포함 백업` → `⋯` 안), `photo-post-d1-browser`, `subview-navigation-browser` |
+| **W4 자료·뉴스·설정** | 작업자 | `ui.js` `renderHeader`의 자료 가지(`:2648-2675`)·`featureMenu`(`:2790`)·자료 목록과 행(`:4100-4430` 부근), `records-list.js`, `source-folders-ui.js`, `source-folders.css`, `records.css`, `discovery-ui.js`, `discovery.css`, `settings-ui.js`, `settings.css` | W1, **W2 병합 뒤**(`ui.js` 순서) | `#lifeSearchCount`: `search-quality-browser.cjs:75`·`:96`, `obsidian-reading-scale-browser.cjs:60`, `life-collections-browser.cjs:152`, `source-merge-browser.cjs:262`. `news-card-feed-browser.cjs:348`(사진 모서리 14px). `settings-browser`. `가져오기`·`기록 선택`·`통합 검색`을 쓰는 검사는 이름을 유지하므로 깨지지 않아야 한다 |
+| **W5 마무리** | Designer 구현 · 다른 에이전트 검수 | W1–W4 밖의 CSS(`workbench.css`, `platform.css`, `timeline-shell.css` 등)의 굵기 750·650·550·450과 옛 모서리를 토큰으로. **예외:** 습관 확인 칸 12px, 데이터 색, 공개 페이지 CSS | W2–W4 병합 | 통합본에서 아래 검사 전체 |
 
-- **순서:** W1 → (W2+W3는 notes-menu 구현과 묶어서) ∥ W4 ∥ W5 → W6 → 총괄 병합(`sw.js` CACHE 판올림, 새 브라우저 검사 CI 등록, AGENTS 스킬 절의 시각 체계 문장 갱신).
-- **notes-menu와 묶는 이유:** 노트·일정 파일을 구조 변경과 시각 변경으로 두 번 고치면 충돌과 검사 수정이 두 배가 된다. 총괄이 notes-menu를 배정할 때 이 계약의 노트·일정 절을 함께 넘기는 것을 권한다.
-- **W1을 먼저 하는 이유:** 토큰만 바뀌어도 화면 대부분의 색·면이 바뀐다. 나머지 단위는 W1의 클래스와 토큰을 재사용한다(같은 일을 하는 새 도우미를 만들지 않는다).
-- **진행 중인 작업과의 충돌:** 총괄 기록에 notes-menu는 "작업자 A·C 병합 뒤"다. W1은 공통 CSS 파일만 고쳐서 A·C와 겹칠 가능성이 낮다. 그래도 착수 시점은 총괄이 정한다.
+- **순서:** W1 → W2(notes-menu와 함께) → W4. W3는 W1 뒤 언제든 할 수 있다. 그다음 W5, 그리고 총괄 병합이다.
+- **notes-menu와 묶는 이유:**
+  - 노트·일정 파일을 구조와 시각으로 두 번 고치면 충돌과 검사 수정이 두 배가 된다.
+  - 그래서 notes-menu 구현은 W1 병합을 기다린다. W1이 늦으면 구조를 먼저 하고 시각 커밋을 W1 뒤에 더한다.
+  - 시각 커밋만 되돌릴 수 있게 나눈다(방향 문서의 "한 화면 먼저 써 보기" 방안).
+- **검사 파일 담당:** 위 표의 단위가 그 검사 파일을 고친다. 두 단위가 같은 검사 파일을 고쳐야 하면 먼저 병합하는 단위가 고치고, 뒤 단위는 main을 합친 뒤 이어서 고친다.
+- **통합·검수:**
+  - 병합과 통합은 총괄이 하고, 작업자 커밋의 작성자를 보존한다. Designer는 디자인 최종 판단을 한다.
+  - 독립 검수자는 그 단위의 구현자가 아닌 에이전트다. W1·W5는 Designer가 구현하므로 다른 에이전트가 검수한다.
+- **총괄의 병합 할 일(작업자 금지 범위):**
+  - `sw.js` CACHE 판올림, 새 브라우저 검사의 CI 등록
+  - AGENTS 스킬 절의 시각 체계 문장("흰 읽기 면·옅은 초록 회색 캔버스·짙은 틸 조작…·실제 사진 피드") 갱신
+  - `.agents/skills/life-haedo-design/SKILL.md:32`, `.agents/skills/unslop/INSTALLATION.md:27`의 초록 캔버스·틸 문장 갱신
+- **진행 중인 작업과의 충돌:** 총괄 기록상 notes-menu는 "작업자 A·C 병합 뒤"다. W1은 공통 CSS가 중심이라 A·C와 겹칠 가능성이 낮지만, 착수 시점은 총괄이 정한다.
 
 ## 검사와 완료 기준
 
 - **단위마다:**
   - `npm run check`, `npm test`, `node scripts/check-markdown-links.cjs`를 돌린다.
-  - 바뀐 화면의 브라우저 검사를 돌린다(예: `unified-home-browser`, `schedule-entries-browser`, `subview-navigation-browser`, `life-naver-capture-browser`, `photo-post-d1-browser`, `records-reader-small-browser`, `news-card-feed-browser`, `settings-browser`).
+  - 위 표의 검사와 바뀐 화면의 브라우저 검사를 돌린다.
+  - W1은 화면 전부에 영향을 주므로 `pages.yml`의 브라우저 검사 전체와 공개 검사 4개를 돌린다.
   - 성공·실패는 실제 종료 코드로만 판정한다.
 - **화면 근거:**
-  - 1440·820·390·320에서 바뀌기 전·후를 캡처한다(익명 샘플, 가짜 클라우드).
+  - 1440·820·390·320에서 바뀌기 전·후를 캡처한다(익명 샘플, 가짜 클라우드). 공개 페이지는 바뀌지 않았음을 캡처로 보인다.
   - 가로 넘침 0, 콘솔·페이지 오류 0, 44px 미만 조작 0.
   - 실제 표면색 기준 대비 표를 남긴다.
-- **통합본(W6):**
-  - 관련 브라우저 검사 전체를 통합본에서 다시 돌린다. 각자 통과해도 합치면 겹침·선택자 모호가 생긴다.
+- **통합본(W5):**
+  - 관련 브라우저 검사 전체를 통합본에서 다시 돌린다.
   - 독립 검수 세 갈래(기능 보존·데이터 / 흐름·시각 / 좁은 화면·접근성)를 돌리고, BLOCKER·MAJOR가 0이어야 한다.
-- **완료:** 위 검사 녹색, 캔버스 시안과 실제 화면의 차이 목록(의도한 차이만), 화면 artifact에 배포 판 반영.
+- **완료:**
+  - 위 검사가 녹색이다.
+  - 시안 PNG와 실제 화면의 차이 목록에 의도한 차이만 남는다.
+  - 화면 artifact에 배포 판을 반영한다.
 - **사용자 확인:** 실제 iPhone·iPad에서 노트와 일정을 며칠 써 본다. 화면 폭 모사를 실기기 확인으로 보고하지 않는다.
 
 ## 보고 형식 (작업자 → 총괄·Designer)
 
-- 커밋 SHA, 바꾼 파일 목록, 검사 명령과 종료 코드
-- 전·후 캡처 경로, 대비 표
-- 옮긴 조작의 자리 표(W4·W5)
+- 커밋 SHA, 바꾼 파일, 검사 명령과 종료 코드
+- 전·후 캡처 경로와 대비 표
+- W1: `--color-primary`·`--haedo-accent`·`--soft` 사용처 분류 표
+- W2: 프로필 묶음 요소의 새 자리 표
+- W3·W4: 옮긴 조작의 "지금 자리 → 새 자리 → Esc 뒤·실행 뒤 초점" 표
 - 미검증 항목(실기기, VoiceOver 등)
